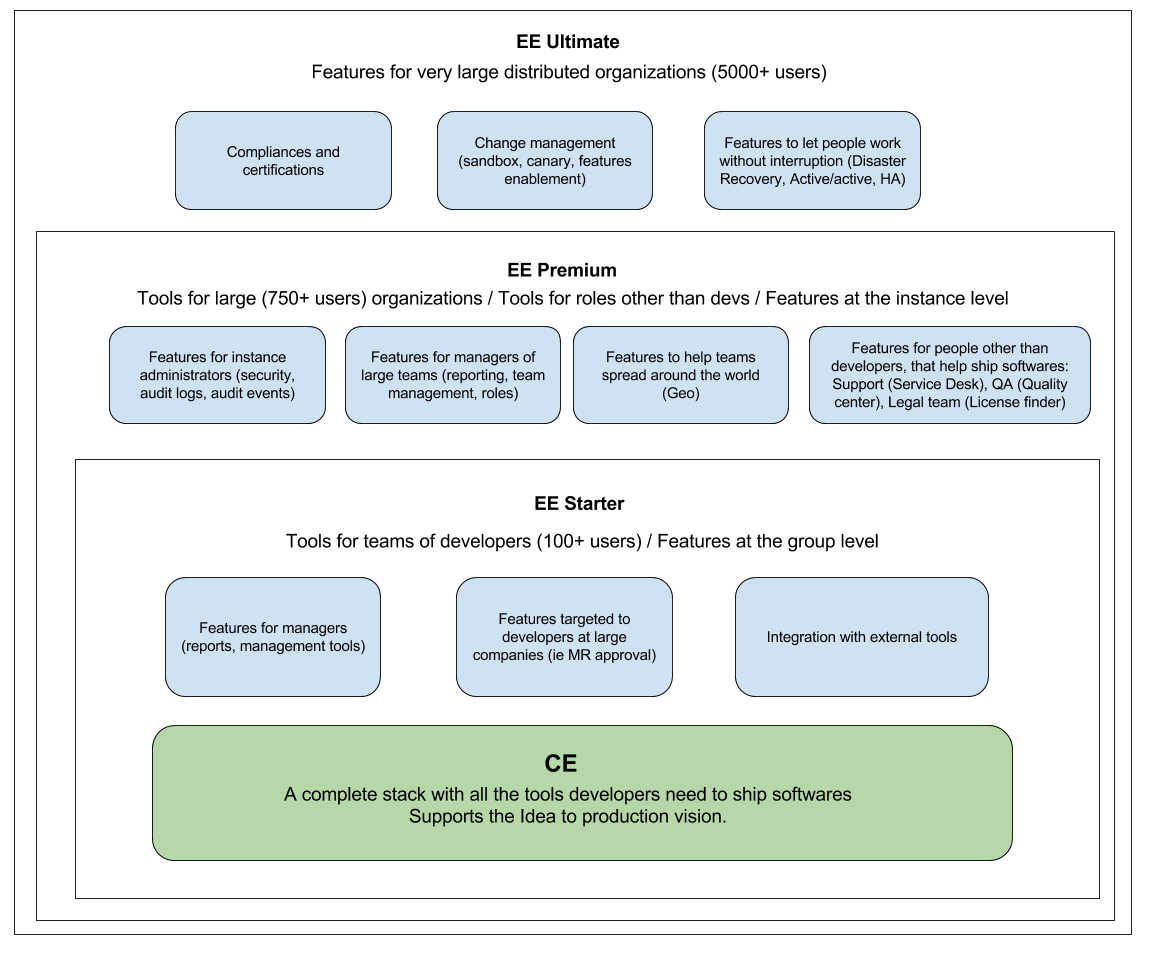
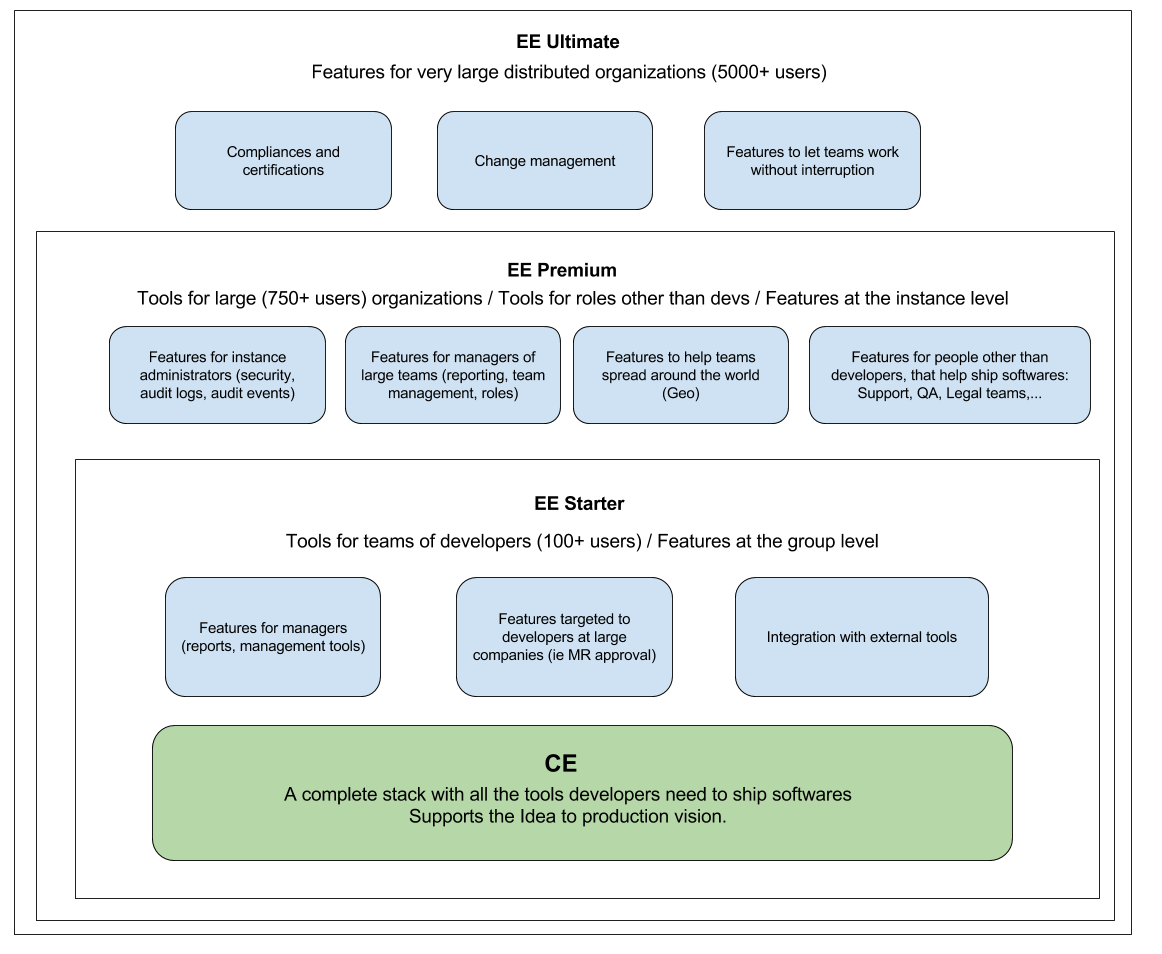
Remove marketing fluff

Changed region(s): [[0.7126, 0.3648, 0.9294, 0.4256], [0.6196, 0.1216, 0.7745, 0.2128], [0.4028, 0.1216, 0.5577, 0.2128]]

diff --git a/source/direction/ee/index.html.md b/source/direction/ee/index.html.md
@@ -3,46 +3,26 @@ layout: markdown_page
 title: "GitLab Enterprise Edition Vision"
 ---
 
-# Introduction
-
-At GitLab we have a vision to change how teams ship softwares. We call it From 
-Idea to production, and we believe anyone can do ship an idea quickly, in
-production, with our tool: GitLab, the best free, open-source platform available
-on the market today.
-
-In order to achieve this bold vision and make a better product each month, we
-need revenues. They will come from the Enterprise Edition. The math is simple:
-the more money we make with the Enterprise Edition, the better all GitLab
-versions, especially the Community Edition, will be.
-
-To better serve the market, GitLab will come in 4 editions.
-
-## Different flavours for different needs and sizes
-
 ![](ee-versions.png)
 
-* **Community Edition**: this is the foundation of everything we do and why
-we exist, as a company. All the Enterprise Editions are based on CE. CE is
-simply the best open-source developer tool out there, and we will continue to
-make it even better every month. Our objective is that our Idea to production
-vision is achievable with our free version. CE is aimed at solo developers as
-well as a small team of developers.
-* **Enterprise Edition Starter**: this edition is aimed towards teams of
-developers (100 or more users). It includes enterprise features for developers,
-like merge request approvals mechanism for instance, or repositories mirroring
-- features that you are more likely to find in large organizations. It also
-includes features for the managers of these teams, like reporting, or group
-management functionalities.
+GitLab comes in 4 editions:
+
+* **Community Edition**: aimed at solo developers as well as a small team of
+developers. All the Enterprise Editions are based on CE. Our objective is that
+our Idea to production vision is achievable with our free version.
+* **Enterprise Edition Starter**: aimed towards teams of developers (100 or more
+users). It includes enterprise features that you are more likely to find in
+large organizations. It also includes features for managers of these teams, like
+reporting, or group management functionalities.
 * **Enterprise Edition Premium**: aimed towards large organizations (750+ users)
- or geographically distributed teams. This edition contains features for
- instance administrators, managers of very large teams that want to take actions
-  across different teams, and people other than developers who actively
-  participate in the life of a software, like QA testers or support agents. It
-  also contains features that help teams that are not in the same physical
-  locations, like Geo.
-* **Enterprise Edition Ultimate**: aimed towards very large organizations
-(5000+ users). This edition bundles tools that help to work without any
-interruption (High availability, Active/active setups), or be in complete
-control over the change management within their organization (Canary deploys,
-  feature enablement). Finally, this edition is for corporations with various
-  compliances and certifications.
+or geographically distributed teams. This edition contains features for
+instance administrators, managers of very large teams that want to take actions
+across different teams, and people other than developers who actively
+participate in the life of a software, like QA testers or support agents. It
+also contains features that help teams that are not in the same physical
+locations.
+* **Enterprise Edition Ultimate**: aimed towards very large organizations (5000+
+users). This edition bundles tools that help to work without any interruption,
+or be in complete control over the change management within their organization.
+Finally, this edition is for corporations with various compliances and
+certifications.
